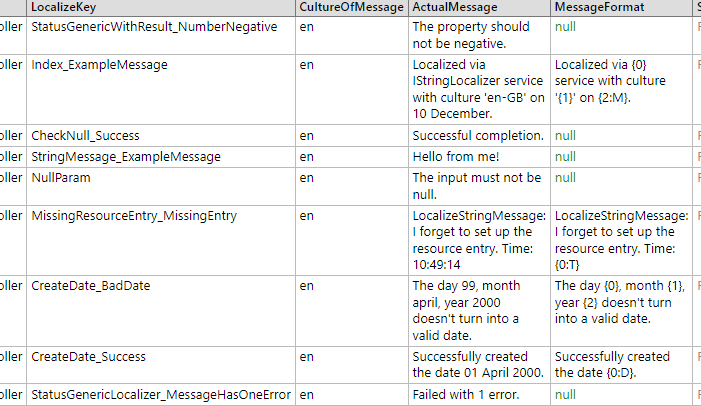
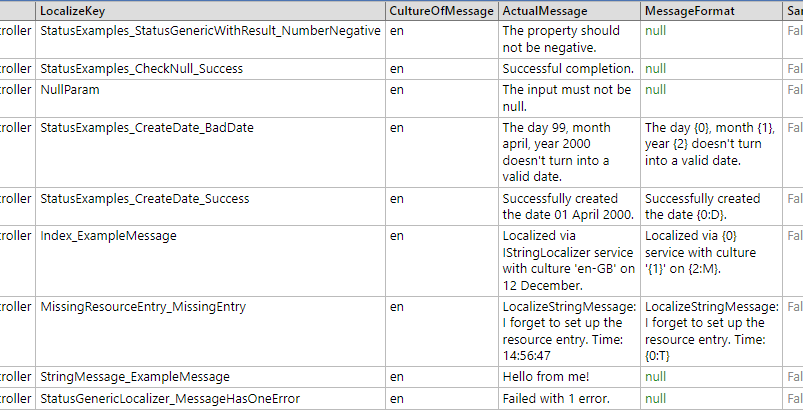
TClass is changed to TThis + test of static version

diff --git a/LocalizeMessagesAndErrors/LocalizeKeyExtensions.cs b/LocalizeMessagesAndErrors/LocalizeKeyExtensions.cs
@@ -25,7 +25,7 @@ public static class LocalizeKeyExtensions
     /// <param name="memberName">DO NOT use. This a filled by the calling method name</param>
     /// <param name="sourceLineNumber">DO NOT use. This a filled by the calling line number</param>
     /// <returns>LocalizeKeyData</returns>
-    public static LocalizeKeyData ClassLocalizeKey<TClass>(this string localKey, TClass callingClass,
+    public static LocalizeKeyData ClassLocalizeKey<TThis>(this string localKey, TThis callingClass,
         bool nameIsUnique,
         [CallerMemberName] string memberName = "", [CallerLineNumber] int sourceLineNumber = 0)
     {
@@ -60,21 +60,12 @@ public static class LocalizeKeyExtensions
     /// <param name="memberName">DO NOT use. This a filled by the calling method name</param>
     /// <param name="sourceLineNumber">DO NOT use. This a filled by the calling line number</param>
     /// <returns>LocalizeKeyData</returns>
-    public static LocalizeKeyData ClassMethodLocalizeKey<TClass>(this string localKey, TClass callingClass,
+    public static LocalizeKeyData ClassMethodLocalizeKey<TThis>(this string localKey, TThis callingClass,
         bool nameIsUnique,
         [CallerMemberName] string memberName = "", [CallerLineNumber] int sourceLineNumber = 0)
     {
         var callingClassType = callingClass.GetType();
-
-        string classPartOfKey;
-        if (nameIsUnique)
-            classPartOfKey = callingClassType.Name;
-        else
-        {
-            var classAttribute = (LocalizeSetClassNameAttribute)Attribute.GetCustomAttribute(callingClassType,
-                typeof(LocalizeSetClassNameAttribute));
-            classPartOfKey = classAttribute?.ClassUniqueName ?? callingClassType.FullName;
-        }
+        string classPartOfKey = GetClassPartOfKey(nameIsUnique, callingClassType);
 
         var localizeKey = classPartOfKey + "_" + memberName + "_" + localKey;
 
@@ -91,7 +82,7 @@ public static class LocalizeKeyExtensions
     /// <param name="memberName">DO NOT use. This a filled by the calling method name</param>
     /// <param name="sourceLineNumber">DO NOT use. This a filled by the calling line number</param>
     /// <returns>LocalizeKeyData</returns>
-    public static LocalizeKeyData MethodLocalizeKey<TClass>(this string localKey, TClass callingClass,
+    public static LocalizeKeyData MethodLocalizeKey<TThis>(this string localKey, TThis callingClass,
         [CallerMemberName] string memberName = "", [CallerLineNumber] int sourceLineNumber = 0)
     {
         var callingClassType = callingClass.GetType();
@@ -110,7 +101,7 @@ public static class LocalizeKeyExtensions
     /// <param name="memberName">DO NOT use. This a filled by the calling method name</param>
     /// <param name="sourceLineNumber">DO NOT use. This a filled by the calling line number</param>
     /// <returns>LocalizeKeyData</returns>
-    public static LocalizeKeyData JustThisLocalizeKey<TClass>(this string localKey, TClass callingClass,
+    public static LocalizeKeyData JustThisLocalizeKey<TThis>(this string localKey, TThis callingClass,
         [CallerMemberName] string memberName = "", [CallerLineNumber] int sourceLineNumber = 0)
     {
         return new LocalizeKeyData(localKey, callingClass.GetType(), memberName, sourceLineNumber);
@@ -119,13 +110,70 @@ public static class LocalizeKeyExtensions
     /// <summary>
     /// Use this if the message has already been localized
     /// </summary>
-    /// <param name="callingClass">Use 'this' for this parameter, which will contain the class / struct you are calling from.</param>
+    /// <param name="callingClass">Use 'this' for this parameter, which will contain the class / struct you are calling from..</param>
     /// <param name="memberName">DO NOT use. This a filled by the calling method name</param>
     /// <param name="sourceLineNumber">DO NOT use. This a filled by the calling line number</param>
     /// <returns>LocalizeKeyData</returns>
-    public static LocalizeKeyData AlreadyLocalized<TClass>(this TClass callingClass,
+    public static LocalizeKeyData AlreadyLocalized<TThis>(this TThis callingClass,
         [CallerMemberName] string memberName = "", [CallerLineNumber] int sourceLineNumber = 0)
     {
         return new LocalizeKeyData(null, callingClass.GetType(), memberName, sourceLineNumber);
+    }
+
+
+    /// <summary>
+    /// This method is designed for using in a static class where you can't use 'this'
+    /// (but it does work with normal class, struct etc. too). 
+    /// This methods allows you to build the localizekey by setting the addClassPart and addMethodPart
+    /// to true (the localKey is always returned.)
+    /// </summary>
+    /// <param name="localKey">This is local key part of the localizedKey.</param>
+    /// <param name="staticClassType">The type of the class / struct you are calling from</param>
+    /// <param name="addClassPart">If true, then the class part of the localize key is added</param>
+    /// <param name="addMethodPart">If true, then the method part of the localize key is added</param>
+    /// <param name="nameIsUnique">If true, then the Name of callingClass is used, otherwise
+    /// it looks for the the <see cref="LocalizeSetClassNameAttribute"/> for a {className}, otherwise it
+    /// uses the FullName of the callingClass param</param>
+    /// <param name="memberName">DO NOT use. This a filled by the calling method name</param>
+    /// <param name="sourceLineNumber">DO NOT use. This a filled by the calling line number</param>
+    /// <returns>LocalizeKeyData</returns>
+    public static LocalizeKeyData LocalizeKeyBuilder(this string localKey, Type staticClassType,
+        bool addClassPart, bool addMethodPart, bool nameIsUnique,    
+        [CallerMemberName] string memberName = "", [CallerLineNumber] int sourceLineNumber = 0)
+    {
+        if (staticClassType == null) throw new ArgumentNullException(nameof(staticClassType));
+
+        var parts = new List<string>();
+        if (addClassPart)
+        {
+            parts.Add(GetClassPartOfKey(nameIsUnique, staticClassType));
+        }
+        if (addMethodPart)
+        {
+            parts.Add(memberName);
+        }
+        parts.Add(localKey);
+
+        var localizeKey = string.Join('_', parts.ToArray());
+
+        return new LocalizeKeyData(localizeKey, staticClassType, memberName, sourceLineNumber);
+    }
+
+    //-------------------------------------------------------------
+    // private methods
+
+    private static string GetClassPartOfKey(bool nameIsUnique, Type callingClassType)
+    {
+        string classPartOfKey;
+        if (nameIsUnique)
+            classPartOfKey = callingClassType.Name;
+        else
+        {
+            var classAttribute = (LocalizeSetClassNameAttribute)Attribute.GetCustomAttribute(callingClassType,
+                typeof(LocalizeSetClassNameAttribute));
+            classPartOfKey = classAttribute?.ClassUniqueName ?? callingClassType.FullName;
+        }
+
+        return classPartOfKey;
     }
 }

diff --git a/Test/UnitTests/TestLocalizeKeyExtensions.cs b/Test/UnitTests/TestLocalizeKeyExtensions.cs
@@ -140,27 +140,29 @@ public class TestLocalizeKeyExtensions
     }
 
 
-    public static class StaticClass
+    private static class StaticClass
     {
-        public static LocalizeKeyData TestKeyExtensions(object callerClass)
+        public static LocalizeKeyData TestStaticKey(bool addClassPart, bool addMethodPart, bool nameIsUnique)
         {
-            return "test".ClassLocalizeKey(callerClass, true);
+            return "test".LocalizeKeyBuilder(typeof(StaticClass), addClassPart, addMethodPart, nameIsUnique);
         }
     }
 
-
-    [Fact]
-    public void TestClassLocalizeKey_InStatic()
+    [Theory]
+    [InlineData(false, false, false, "test")]
+    [InlineData(true, false, false, "Test.UnitTests.TestLocalizeKeyExtensions+StaticClass_test")]
+    [InlineData(true, false, true, "StaticClass_test")]
+    [InlineData(true, true, false, "Test.UnitTests.TestLocalizeKeyExtensions+StaticClass_TestStaticKey_test")]
+    [InlineData(true, true, true, "StaticClass_TestStaticKey_test")]
+    public void TestLocalizeKeyBuilder_InStatic(bool addClassPart, bool addMethodPart, bool nameIsUnique, string expectedKey)
     {
         //SETUP
 
         //ATTEMPT
-        var localizeData = StaticClass.TestKeyExtensions(this);
+        var localizeData = StaticClass.TestStaticKey(addClassPart, addMethodPart, nameIsUnique);
 
         //VERIFY
-        localizeData.CallingClass.ShouldEqual(GetType());
-        localizeData.MethodName.ShouldEqual("TestKeyExtensions");
-        localizeData.SourceLineNumber.ShouldNotEqual(0);
+        localizeData.LocalizeKey.ShouldEqual(expectedKey);
     }
     //------------------------------------------------------------
     //class data

diff --git a/ServiceLayer/ExamplesOfStatusGenericsLoc.cs b/ServiceLayer/ExamplesOfStatusGenericsLoc.cs
@@ -27,7 +27,7 @@ public class ExamplesOfStatusGenericsLoc<TResource>
     {
         //The StatusGenericLocalizer constructor takes:
         //<TResource>, which defines part of the resource file's name where the other languages are stored in
-        //param1: The culture of the message / errors within this method
+        //param1: The culture of the message / errors within this method - in this case, generic English
         //param2: An instance of the ILocalizeWithDefault<TResource> service
         var status = new StatusGenericLocalizer<TResource>("en", _localizeDefault);
 
@@ -46,7 +46,7 @@ public class ExamplesOfStatusGenericsLoc<TResource>
         //- The Message contain the localized message you set.
         //- HasErrors and IsValid properties are false and true respectively
         //If there are errors then:
-        //- the Message has the format of "Failed with NN errors".
+        //- the Message has the format of "Failed with NN errors", but localized.
         //- HasErrors and IsValid properties are true and false respectively
         return status;
     }
